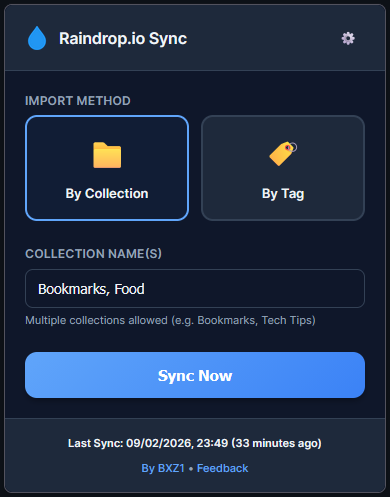
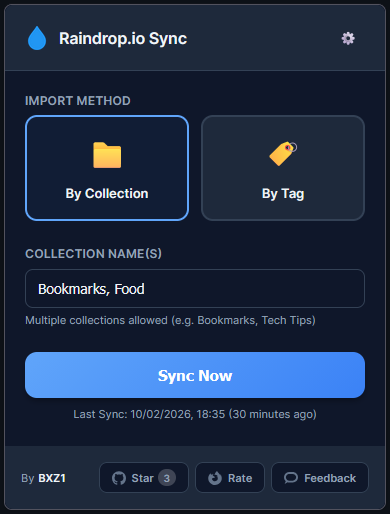
feat: enhance UI with version display, GitHub star count, and redesigned footer.

diff --git a/index.css b/index.css
@@ -85,6 +85,24 @@ header {
     object-fit: contain;
 }
 
+.version-tag {
+    font-size: 11px;
+    padding: 2px 7px;
+    background: rgba(59, 130, 246, 0.1);
+    color: var(--primary);
+    border-radius: 4px;
+    font-weight: 600;
+    margin-left: 6px;
+    text-decoration: none;
+    transition: var(--transition);
+    cursor: pointer;
+}
+
+.version-tag:hover {
+    background: rgba(59, 130, 246, 0.2);
+    color: var(--primary-hover);
+}
+
 .settings-btn {
     background: transparent;
     border: none;
@@ -98,7 +116,6 @@ header {
 .settings-btn:hover {
     background: var(--bg-app);
     color: var(--text-main);
-    transform: rotate(15deg);
 }
 
 /* Main Content */
@@ -219,7 +236,6 @@ input.invalid {
 
 .method-card:hover {
     border-color: var(--border-hover);
-    transform: translateY(-2px);
     box-shadow: var(--shadow-md);
 }
 
@@ -351,7 +367,6 @@ input.invalid {
 }
 
 .import-btn:hover {
-    transform: translateY(-1px);
     box-shadow: var(--shadow-lg);
     filter: brightness(1.05);
 }
@@ -443,28 +458,109 @@ footer {
     padding: 16px;
     font-size: 11px;
     color: var(--text-muted);
-    border-top: 1px solid var(--border);
     background: var(--bg-card);
     margin-top: auto;
 }
 
 .last-sync {
-    font-weight: 600;
-    margin-bottom: 4px;
-    color: var(--text-main);
-}
-
-.footer-links {
-    margin-top: 8px;
     font-size: 11px;
+    color: var(--text-muted);
+    text-align: center;
+    margin-top: 8px;
+    margin-bottom: 4px;
 }
 
-.footer-links a {
+.footer-bottom {
+    display: flex;
+    justify-content: space-between;
+    align-items: center;
+}
+
+.author-area {
+    display: flex;
+    align-items: center;
+    gap: 4px;
+    font-size: 11px;
+    color: var(--text-muted);
+}
+
+.author-name {
+    color: var(--text-main);
+    text-decoration: none;
+    font-weight: 600;
+    transition: var(--transition);
+}
+
+.author-name:hover {
     color: var(--primary);
+}
+
+.footer-actions {
+    display: flex;
+    align-items: center;
+    gap: 6px;
+}
+
+.support-chip {
+    display: flex;
+    align-items: center;
+    gap: 6px;
+    padding: 6px 12px;
+    background: var(--bg-app);
+    color: var(--text-muted);
+    text-decoration: none;
+    border-radius: 8px;
+    font-size: 11px;
+    font-weight: 600;
+    transition: var(--transition);
+    border: 1px solid var(--border);
+}
+
+.support-chip:hover {
+    background: var(--bg-card);
+    color: var(--primary);
+    border-color: var(--primary);
+    box-shadow: var(--shadow-sm);
+}
+
+.support-chip:hover .chip-icon {
+    filter: brightness(0) saturate(100%) invert(48%) sepia(97%) saturate(1786%) hue-rotate(203deg) brightness(99%) contrast(92%);
+}
+
+.chip-icon {
+    width: 14px;
+    height: 14px;
+    object-fit: contain;
+    transition: transform 0.2s ease, opacity 0.2s ease;
+}
+
+.star-count {
+    background: rgba(255, 255, 255, 0.2);
+    padding: 1px 6px;
+    border-radius: 10px;
+    font-size: 10px;
+    margin-left: -2px;
+}
+
+.support-chip:hover .star-count {
+    background: rgba(255, 255, 255, 0.3);
+}
+
+.divider {
+    width: 1px;
+    height: 14px;
+    background: var(--border);
+    margin: 0 4px;
+}
+
+.footer-link {
+    color: var(--text-muted);
     text-decoration: none;
     font-weight: 500;
+    font-size: 11px;
+    transition: var(--transition);
 }
 
-.footer-links a:hover {
-    text-decoration: underline;
+.footer-link:hover {
+    color: var(--primary);
 }

diff --git a/popup.html b/popup.html
@@ -14,6 +14,7 @@
             <div class="brand">
                 <img src="icon.png" class="brand-icon" alt="Logo">
                 <span>Raindrop.io Sync</span>
+                <a id="versionTag" class="version-tag" target="_blank" title="View Changelog"></a>
             </div>
             <button id="settingsToggle" class="settings-btn" title="Settings">
                 ⚙
@@ -94,6 +95,7 @@
             <button id="importBtn" class="import-btn">
                 <span>Sync Now</span>
             </button>
+            <p id="lastSyncMsg" class="last-sync">Last Sync: Never</p>
 
             <!-- Status Feedback -->
             <div id="statusMsg" class="status-msg hidden">
@@ -103,10 +105,29 @@
         </main>
 
         <footer>
-            <p id="lastSyncMsg" class="last-sync">Last Sync: Never</p>
-            <div class="footer-links">
-                <a href="https://github.com/BXZ1/raindrop-sync-firefox" target="_blank">By BXZ1</a> •
-                <a href="https://github.com/BXZ1/raindrop-sync-firefox/discussions" target="_blank">Feedback</a>
+            <div class="footer-bottom">
+                <div class="author-area">
+                    <span>By</span>
+                    <a href="https://github.com/BXZ1" target="_blank" class="author-name">BXZ1</a>
+                </div>
+                <div class="footer-actions">
+                    <a href="https://github.com/BXZ1/raindrop-sync-firefox" target="_blank" class="support-chip"
+                        title="Star on GitHub">
+                        <img src="https://cdn.simpleicons.org/github/64748b" class="chip-icon" alt="GitHub">
+                        <span class="chip-label">Star</span>
+                        <span id="starCount" class="star-count"></span>
+                    </a>
+                    <a href="https://addons.mozilla.org/en-US/firefox/addon/raindrop-sync-firefox/" target="_blank"
+                        class="support-chip" title="Rate on Firefox">
+                        <img src="https://cdn.simpleicons.org/firefoxbrowser/64748b" class="chip-icon" alt="Firefox">
+                        <span class="chip-label">Rate</span>
+                    </a>
+                    <a href="https://github.com/BXZ1/raindrop-sync-firefox/discussions" target="_blank"
+                        class="support-chip" title="Send Feedback">
+                        <img src="https://cdn.simpleicons.org/theconversation/64748b" class="chip-icon" alt="Feedback">
+                        <span class="chip-label">Feedback</span>
+                    </a>
+                </div>
             </div>
         </footer>
     </div>

diff --git a/popup.js b/popup.js
@@ -17,7 +17,9 @@ const elements = {
     importBtn: document.getElementById('importBtn'),
     statusMsg: document.getElementById('statusMsg'),
     lastSyncMsg: document.getElementById('lastSyncMsg'),
-    tokenStatus: document.getElementById('tokenStatus')
+    tokenStatus: document.getElementById('tokenStatus'),
+    versionTag: document.getElementById('versionTag'),
+    starCount: document.getElementById('starCount')
 };
 
 // Default State
@@ -55,9 +57,49 @@ async function loadState() {
             validateToken(STATE.apiToken);
         }
 
+        // Update Version ID and Changelog Link
+        const manifest = browser.runtime.getManifest();
+        const version = manifest.version;
+        elements.versionTag.textContent = `v${version}`;
+        elements.versionTag.href = `https://github.com/BXZ1/raindrop-sync-firefox/releases/tag/v${version}`;
+
         updateLastSyncDisplay(stored.lastSync);
+        fetchGitHubStars();
     } catch (e) {
         console.error('Failed to load state', e);
+    }
+}
+
+async function fetchGitHubStars() {
+    const CACHE_KEY = 'github_stars_cache';
+    const CACHE_TTL = 3600000; // 1 hour
+
+    try {
+        const cached = await browser.storage.local.get(CACHE_KEY);
+        const now = Date.now();
+
+        if (cached[CACHE_KEY] && (now - cached[CACHE_KEY].timestamp < CACHE_TTL)) {
+            updateStarsUI(cached[CACHE_KEY].count);
+            return;
+        }
+
+        const response = await fetch('https://api.github.com/repos/BXZ1/raindrop-sync-firefox');
+        if (response.ok) {
+            const data = await response.json();
+            const count = data.stargazers_count;
+            updateStarsUI(count);
+            await browser.storage.local.set({
+                [CACHE_KEY]: { count, timestamp: now }
+            });
+        }
+    } catch (e) {
+        console.error('Failed to fetch stars', e);
+    }
+}
+
+function updateStarsUI(count) {
+    if (elements.starCount && count !== undefined) {
+        elements.starCount.textContent = count;
     }
 }
 

diff --git a/README.md b/README.md
@@ -1,9 +1,11 @@
 # Raindrop.io Sync for Firefox
 
 [![License: MIT](https://img.shields.io/badge/License-MIT-blue.svg)](LICENSE)
-[![Firefox Add-on](https://img.shields.io/amo/v/raindrop-sync-firefox?label=version&logo=firefox)](https://addons.mozilla.org/en-US/firefox/addon/raindrop-sync-firefox/)
+[![GitHub stars](https://img.shields.io/github/stars/BXZ1/raindrop-sync-firefox?style=flat&logo=github)](https://github.com/BXZ1/raindrop-sync-firefox/stargazers)
 [![Mozilla Add-on Users](https://img.shields.io/amo/users/raindrop-sync-firefox?logo=firefox)](https://addons.mozilla.org/en-US/firefox/addon/raindrop-sync-firefox/)
+[![Firefox Add-on](https://img.shields.io/amo/v/raindrop-sync-firefox?label=version&logo=firefox)](https://addons.mozilla.org/en-US/firefox/addon/raindrop-sync-firefox/)
 [![Download on Firefox](https://img.shields.io/badge/Download-on%20Firefox-orange?logo=firefox)](https://addons.mozilla.org/en-US/firefox/addon/raindrop-sync-firefox/)
+
 
 **Bring your Raindrop.io bookmarks/collections directly into your native Firefox Bookmarks Toolbar.**  
 Raindrop.io Sync is a specialized Firefox extension that bridges the gap between your cloud bookmarks and your native browser experience.
@@ -37,6 +39,10 @@ Most bookmark managers keep your links tucked away in a separate app. This exten
 3.  **Pick your Source**: Select the **By Collection** or **By Tag** method. You can enter multiple names separated by commas (e.g., `Work, News, Tech Tips`).
 4.  **Set the Target**: Choose which folder in your **Bookmarks Toolbar** should hold the synced links (Default: `Imported from Raindrop`).
 5.  **Schedule Sync**: Choose your frequency and let the background script do the work.
+
+## Support ⭐
+
+If you find this tool useful, please consider giving it a **Star** on [GitHub](https://github.com/BXZ1/raindrop-sync-firefox). It helps the project grow and stay maintained!
 
 ## Development 🛠
 
